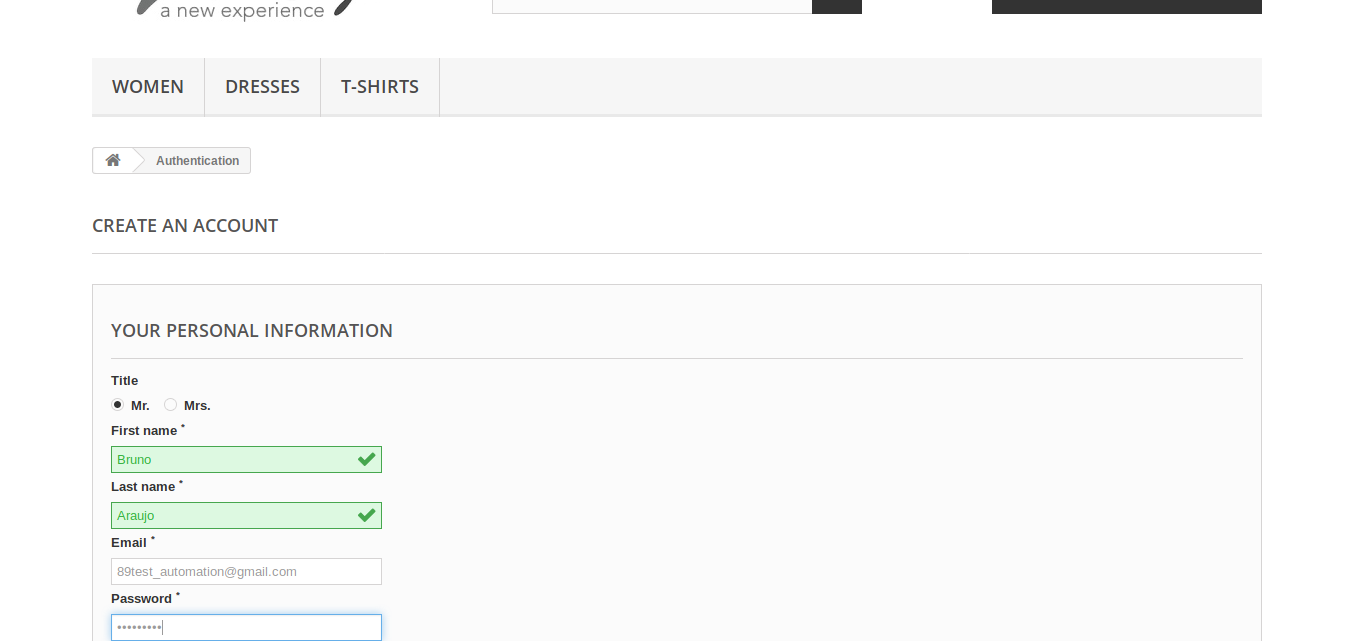
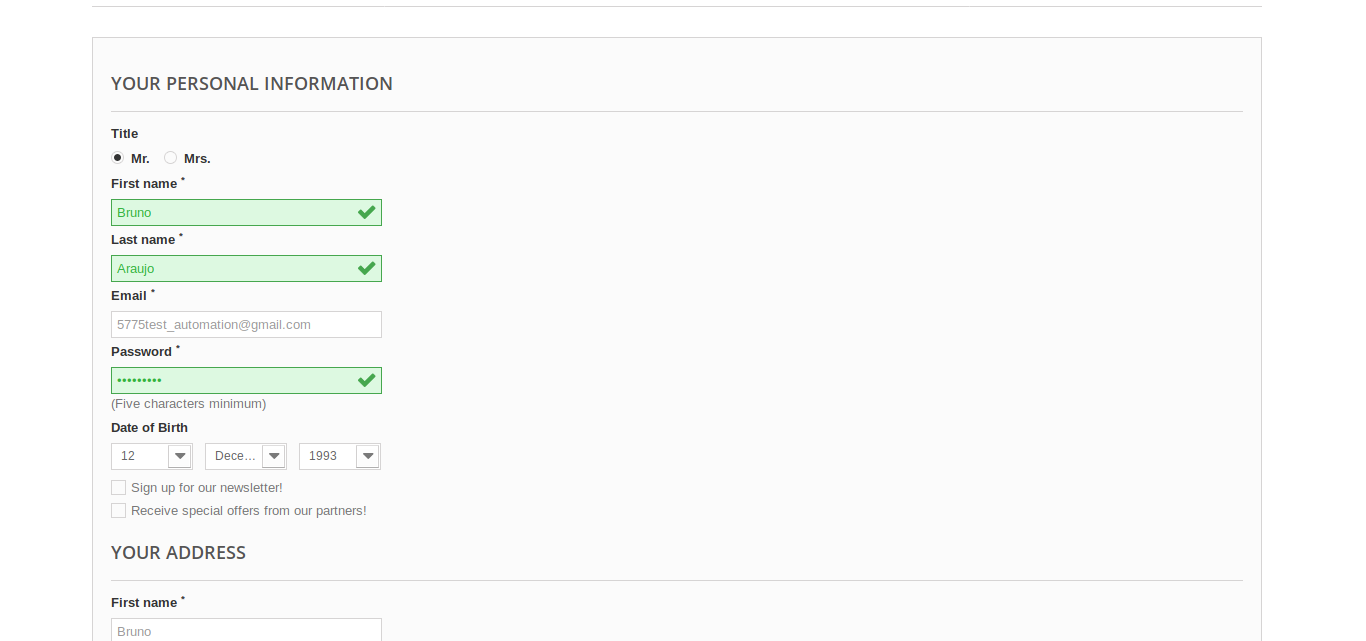
Ajuste no cadastro de usuário

diff --git a/reports/html/features_report.html b/reports/html/features_report.html
@@ -467,13 +467,11 @@ function makeRed(element_id) {
 function makeYellow(element_id) {
   $('#'+element_id).css('background', '#FAF834');
   $('#'+element_id).css('color', '#000000');
-}</script></head><body><!-- Step count 0--><div class="cucumber"><div id="cucumber-header"><div id="label"><h1>Cucumber Features</h1></div><div id="summary"><p id="totals"></p><p id="duration"></p><div id="expand-collapse"><p id="expander">Expand All</p><p id="collapser">Collapse All</p></div></div></div><div class="feature"><h2><span class="val">Feature: Efetuar comprar no site automation practise</span></h2><p class="narrative">Eu como usuário que realizar a compra de um vestido no site Automation Practise<br/></p><div class="background"><h3 id="background_0"><span class="keyword">Background</span> <span class="val">Preparação de ambiente</span></h3><ol><li id='' class='step passed'><div class="step_name"><span class="keyword">Given </span><span class="step val">que esteja na tela inicial do site Automation Practise</span></div><div class="step_file"><span>features/step_definitions/initial_steps.rb:7</span></div></li> <script type="text/javascript">moveProgressBar('100.0');</script></ol></div><div class='scenario'><span class="tag">@solo</span><span class="scenario_file">features/specs/purchase.feature:10</span><h3 id="scenario_1"><span class="keyword">Scenario:</span> <span class="val">Realizar comprar</span></h3><ol><li id='' class='step passed'><div class="step_name"><span class="keyword">Given </span><span class="step val">que clico no categoria Dresses</span></div><div class="step_file"><span>features/step_definitions/initial_steps.rb:11</span></div></li> <script type="text/javascript">moveProgressBar('100.0');</script><li id='' class='step passed'><div class="step_name"><span class="keyword">When </span><span class="step val">clico na subcategoria Summer Dresses</span></div><div class="step_file"><span>features/step_definitions/initial_steps.rb:15</span></div></li> <script type="text/javascript">moveProgressBar('100.0');</script><li id='' class='step passed'><div class="step_name"><span class="keyword">And </span><span class="step val">o título da pagina deve ser <span class="param">&quot;Summer Dresses - My Store&quot;</span></span></div><div class="step_file"><span>features/step_definitions/steps_steps.rb:1</span></div></li> <script type="text/javascript">moveProgressBar('100.0');</script><li id='' class='step passed'><div class="step_name"><span class="keyword">And </span><span class="step val">verifico se tem no estoque o item Printed Chiffon Dress</span></div><div class="step_file"><span>features/step_definitions/steps_steps.rb:21</span></div></li> <script type="text/javascript">moveProgressBar('100.0');</script><li id='' class='step passed'><div class="step_name"><span class="keyword">And </span><span class="step val">seleciono o Dresses de cor amarela</span></div><div class="step_file"><span>features/step_definitions/cart_steps.rb:15</span></div></li> <script type="text/javascript">moveProgressBar('100.0');</script><li id='' class='step passed'><div class="step_name"><span class="keyword">And </span><span class="step val">valido as seguintes informações do pedido</span></div><div class="step_file"><span>features/step_definitions/cart_steps.rb:1</span></div><table><tr class='step' id='row_17'><td id="row_17_0" class="step skipped"><div><span class="step param">name_product</span></div></td><td id="row_17_1" class="step skipped"><div><span class="step param">quantity</span></div></td><td id="row_17_2" class="step skipped"><div><span class="step param">size</span></div></td><td id="row_17_3" class="step skipped"><div><span class="step param">color</span></div></td></tr> <script type="text/javascript">moveProgressBar('100.0');</script><tr class='step' id='row_18'><td id="row_18_0" class="step skipped"><div><span class="step param">Printed Chiffon Dress</span></div></td><td id="row_18_1" class="step skipped"><div><span class="step param">1</span></div></td><td id="row_18_2" class="step skipped"><div><span class="step param">S</span></div></td><td id="row_18_3" class="step skipped"><div><span class="step param">yellow</span></div></td></tr> <script type="text/javascript">moveProgressBar('100.0');</script></table></li> <script type="text/javascript">moveProgressBar('100.0');</script><li id='' class='step passed'><div class="step_name"><span class="keyword">And </span><span class="step val">clico no botão Add to cart</span></div><div class="step_file"><span>features/step_definitions/cart_steps.rb:10</span></div></li> <script type="text/javascript">moveProgressBar('100.0');</script><li id='' class='step passed'><div class="step_name"><span class="keyword">And </span><span class="step val">savo o valor total da compra</span></div><div class="step_file"><span>features/step_definitions/summary_steps.rb:1</span></div></li> <script type="text/javascript">moveProgressBar('100.0');</script><li id='' class='step passed'><div class="step_name"><span class="keyword">And </span><span class="step val">clico no botão Proceed to checkout</span></div><div class="step_file"><span>features/step_definitions/summary_steps.rb:5</span></div></li> <script type="text/javascript">moveProgressBar('100.0');</script><li id='' class='step passed'><div class="step_name"><span class="keyword">And </span><span class="step val">devo ser redirecionado para tela <span class="param">&quot;SHOPPING-CART SUMMARY&quot;</span></span></div><div class="step_file"><span>features/step_definitions/steps_steps.rb:5</span></div></li> <script type="text/javascript">moveProgressBar('100.0');</script><li id='' class='step passed'><div class="step_name"><span class="keyword">And </span><span class="step val">clico no botão Proceed to checkout</span></div><div class="step_file"><span>features/step_definitions/summary_steps.rb:5</span></div></li> <script type="text/javascript">moveProgressBar('100.0');</script><li id='' class='step passed'><div class="step_name"><span class="keyword">And </span><span class="step val">devo ser redirecionado para tela <span class="param">&quot;AUTHENTICATION&quot;</span></span></div><div class="step_file"><span>features/step_definitions/steps_steps.rb:5</span></div></li> <script type="text/javascript">moveProgressBar('100.0');</script><li id='' class='step passed'><div class="step_name"><span class="keyword">And </span><span class="step val">efetuo o login com as seguintes credenciais</span></div><div class="step_file"><span>features/step_definitions/steps_steps.rb:13</span></div><table><tr class='step' id='row_26'><td id="row_26_0" class="step skipped"><div><span class="step param">email</span></div></td><td id="row_26_1" class="step skipped"><div><span class="step param">password</span></div></td></tr> <script type="text/javascript">moveProgressBar('100.0');</script><tr class='step' id='row_27'><td id="row_27_0" class="step skipped"><div><span class="step param">$email</span></div></td><td id="row_27_1" class="step skipped"><div><span class="step param">123Mudar*</span></div></td></tr> <script type="text/javascript">moveProgressBar('100.0');</script></table></li> <script type="text/javascript">moveProgressBar('100.0');</script><script>makeRed('cucumber-header');makeRed('scenario_1');</script><li id='' class='step failed'><div class="step_name"><span class="keyword">And </span><span class="step val">valido as seguintes informações do endereço</span></div><div class="step_file"><span>features/step_definitions/purchase_steps.rb:1</span></div><table><tr class='step' id='row_29'><td id="row_29_0" class="step skipped"><div><span class="step param">name</span></div></td><td id="row_29_1" class="step skipped"><div><span class="step param">street</span></div></td><td id="row_29_2" class="step skipped"><div><span class="step param">city</span></div></td><td id="row_29_3" class="step skipped"><div><span class="step param">zip</span></div></td><td id="row_29_4" class="step skipped"><div><span class="step param">country</span></div></td><td id="row_29_5" class="step skipped"><div><span class="step param">mobile</span></div></td></tr> <script type="text/javascript">moveProgressBar('100.0');</script><tr class='step' id='row_30'><td id="row_30_0" class="step skipped"><div><span class="step param">Bruno</span></div></td><td id="row_30_1" class="step skipped"><div><span class="step param">Nine</span></div></td><td id="row_30_2" class="step skipped"><div><span class="step param">Texas</span></div></td><td id="row_30_3" class="step skipped"><div><span class="step param">76621</span></div></td><td id="row_30_4" class="step skipped"><div><span class="step param">United</span></div></td><td id="row_30_5" class="step skipped"><div><span class="step param">1(212)444-9999</span></div></td></tr> <script type="text/javascript">moveProgressBar('100.0');</script></table><div class="message"><pre>Unable to find css "#address_delivery" (Capybara::ElementNotFound)</pre></div><div class="backtrace"><pre>./features/pages/adress_pages.rb:11:in `get_text_adress_delivery'
-./features/step_definitions/purchase_steps.rb:4:in `block (2 levels) in <top (required)>'
-./features/step_definitions/purchase_steps.rb:3:in `each'
-./features/step_definitions/purchase_steps.rb:3:in `"valido as seguintes informações do endereço"'
-features/specs/purchase.feature:28:in `And valido as seguintes informações do endereço'</pre></div><pre class="ruby"><code><span class="linenum">9</span>
-<span class="linenum">10</span>  def get_text_adress_delivery
-<span class="offending"><span class="linenum">11</span>      text_adress_delivery.text.split(" ")</span>
-<span class="linenum">12</span>  end
-<span class="linenum">13</span>
-<span class="linenum">14</span><span class="comment"># gem install syntax to get syntax highlighting</span></code></pre></li> <script type="text/javascript">moveProgressBar('100.0');</script><li id='' class='step skipped'><div class="step_name"><span class="keyword">And </span><span class="step val">na tela Adress clico no botão Proceed to checkout</span></div><div class="step_file"><span>features/step_definitions/purchase_steps.rb:8</span></div></li> <script type="text/javascript">moveProgressBar('100.0');</script><li id='' class='step skipped'><div class="step_name"><span class="keyword">And </span><span class="step val">devo ser redirecionado para tela <span class="param">&quot;Shipping&quot;</span></span></div><div class="step_file"><span>features/step_definitions/steps_steps.rb:5</span></div></li> <script type="text/javascript">moveProgressBar('100.0');</script><li id='' class='step skipped'><div class="step_name"><span class="keyword">And </span><span class="step val">aceito o termos do serviço que será prestado</span></div><div class="step_file"><span>features/step_definitions/steps_steps.rb:25</span></div></li> <script type="text/javascript">moveProgressBar('100.0');</script><li id='' class='step skipped'><div class="step_name"><span class="keyword">And </span><span class="step val">na tela Shipping clico no botão Proceed to checkout</span></div><div class="step_file"><span>features/step_definitions/purchase_steps.rb:12</span></div></li> <script type="text/javascript">moveProgressBar('100.0');</script><li id='' class='step skipped'><div class="step_name"><span class="keyword">And </span><span class="step val">devo ser redirecionado para tela <span class="param">&quot;Payment&quot;</span></span></div><div class="step_file"><span>features/step_definitions/steps_steps.rb:5</span></div></li> <script type="text/javascript">moveProgressBar('100.0');</script><li id='' class='step skipped'><div class="step_name"><span class="keyword">And </span><span class="step val">seleciono a opção Pay by bank wire</span></div><div class="step_file"><span>features/step_definitions/payment_steps.rb:1</span></div></li> <script type="text/javascript">moveProgressBar('100.0');</script><li id='' class='step skipped'><div class="step_name"><span class="keyword">And </span><span class="step val">devo ser redirecionado para tela <span class="param">&quot;ORDER SUMMARY&quot;</span></span></div><div class="step_file"><span>features/step_definitions/steps_steps.rb:5</span></div></li> <script type="text/javascript">moveProgressBar('100.0');</script><li id='' class='step skipped'><div class="step_name"><span class="keyword">And </span><span class="step val">clico no botão I confirm my order</span></div><div class="step_file"><span>features/step_definitions/payment_steps.rb:5</span></div></li> <script type="text/javascript">moveProgressBar('100.0');</script><li id='' class='step skipped'><div class="step_name"><span class="keyword">And </span><span class="step val">devo ser redirecionado para tela <span class="param">&quot;ORDER CONFIRMATION&quot;</span></span></div><div class="step_file"><span>features/step_definitions/steps_steps.rb:5</span></div></li> <script type="text/javascript">moveProgressBar('100.0');</script><li id='' class='step skipped'><div class="step_name"><span class="keyword">Then </span><span class="step val">valido as seguintes informações da tela Order Confirmation</span></div><div class="step_file"><span>features/step_definitions/payment_steps.rb:9</span></div><table><tr class='step' id='row_41'><td id="row_41_0" class="step skipped"><div><span class="step param">Message_confirmation</span></div></td><td id="row_41_1" class="step skipped"><div><span class="step param">Amount</span></div></td></tr> <script type="text/javascript">moveProgressBar('100.0');</script><tr class='step' id='row_42'><td id="row_42_0" class="step skipped"><div><span class="step param">Your order on My Store is complete.</span></div></td><td id="row_42_1" class="step skipped"><div><span class="step param">$valor</span></div></td></tr> <script type="text/javascript">moveProgressBar('100.0');</script></table></li> <script type="text/javascript">moveProgressBar('100.0');</script><span class="embed"><a id="text_1" href="reports/screenshots/Falhou/selenium/Realizar_comprar_selenium.png" title="Screenshot">Screenshot</a></span></ol></div></div><script type="text/javascript">document.getElementById('duration').innerHTML = "Finished in <strong>0m36.110s seconds</strong>";</script><script type="text/javascript">document.getElementById('totals').innerHTML = "1 scenario (1 failed)<br />25 steps (1 failed, 10 skipped, 14 passed)";</script></div></body></html>
+}</script></head><body><!-- Step count 0--><div class="cucumber"><div id="cucumber-header"><div id="label"><h1>Cucumber Features</h1></div><div id="summary"><p id="totals"></p><p id="duration"></p><div id="expand-collapse"><p id="expander">Expand All</p><p id="collapser">Collapse All</p></div></div></div><div class="feature"><h2><span class="val">Feature: Realizar cadastro na loja virtual</span></h2><p class="narrative">Eu como usuário quero cadastrar - me na loja virtual automation practise<br/></p><div class="background"><h3 id="background_0"><span class="keyword">Background</span> <span class="val">Preparação de ambiente</span></h3><ol><li id='' class='step passed'><div class="step_name"><span class="keyword">Given </span><span class="step val">que esteja na tela de cadastro</span></div><div class="step_file"><span>features/step_definitions/initial_steps.rb:1</span></div></li> <script type="text/javascript">moveProgressBar('100.0');</script></ol></div><div class='scenario'><span class="tag">@logout</span> <span class="tag">@solo</span><span class="scenario_file">features/specs/create_account.feature:10</span><h3 id="scenario_1"><span class="keyword">Scenario:</span> <span class="val">Cadastro de usuário</span></h3><ol><li id='' class='step passed'><div class="step_name"><span class="keyword">When </span><span class="step val">preencho o campo Email address <span class="param">&quot;test_automation@gmail.com&quot;</span></span></div><div class="step_file"><span>features/step_definitions/authentication_steps.rb:1</span></div></li> <script type="text/javascript">moveProgressBar('100.0');</script><li id='' class='step passed'><div class="step_name"><span class="keyword">And </span><span class="step val">clico no botão Create an account</span></div><div class="step_file"><span>features/step_definitions/create_account_steps.rb:1</span></div></li> <script type="text/javascript">moveProgressBar('100.0');</script><li id='' class='step passed'><div class="step_name"><span class="keyword">And </span><span class="step val">o título da pagina deve ser <span class="param">&quot;Login - My Store&quot;</span></span></div><div class="step_file"><span>features/step_definitions/steps_steps.rb:1</span></div></li> <script type="text/javascript">moveProgressBar('100.0');</script><li id='' class='step passed'><div class="step_name"><span class="keyword">And </span><span class="step val">preencho os campos de informação pessoal com os seguintes valores</span></div><div class="step_file"><span>features/step_definitions/create_account_steps.rb:5</span></div><table><tr class='step' id='row_15'><td id="row_15_0" class="step skipped"><div><span class="step param">Title</span></div></td><td id="row_15_1" class="step skipped"><div><span class="step param">First_name</span></div></td><td id="row_15_2" class="step skipped"><div><span class="step param">Last_name</span></div></td><td id="row_15_3" class="step skipped"><div><span class="step param">Email</span></div></td><td id="row_15_4" class="step skipped"><div><span class="step param">Password</span></div></td><td id="row_15_5" class="step skipped"><div><span class="step param">Date_of_Birth</span></div></td></tr> <script type="text/javascript">moveProgressBar('100.0');</script><tr class='step' id='row_16'><td id="row_16_0" class="step skipped"><div><span class="step param">Mr.</span></div></td><td id="row_16_1" class="step skipped"><div><span class="step param">Bruno</span></div></td><td id="row_16_2" class="step skipped"><div><span class="step param">Araujo</span></div></td><td id="row_16_3" class="step skipped"><div><span class="step param">test_automation@gmail.com</span></div></td><td id="row_16_4" class="step skipped"><div><span class="step param">123Mudar*</span></div></td><td id="row_16_5" class="step skipped"><div><span class="step param">12/December/1993</span></div></td></tr> <script type="text/javascript">moveProgressBar('100.0');</script></table></li> <script type="text/javascript">moveProgressBar('100.0');</script><script>makeRed('cucumber-header');makeRed('scenario_1');</script><li id='' class='step failed'><div class="step_name"><span class="keyword">And </span><span class="step val">preencho os campos de endereço com as seguintes valores</span></div><div class="step_file"><span>features/step_definitions/create_account_steps.rb:13</span></div><table><tr class='step' id='row_18'><td id="row_18_0" class="step skipped"><div><span class="step param">First_name</span></div></td><td id="row_18_1" class="step skipped"><div><span class="step param">Last_name</span></div></td><td id="row_18_2" class="step skipped"><div><span class="step param">Adress</span></div></td><td id="row_18_3" class="step skipped"><div><span class="step param">City</span></div></td><td id="row_18_4" class="step skipped"><div><span class="step param">State</span></div></td><td id="row_18_5" class="step skipped"><div><span class="step param">Zip</span></div></td><td id="row_18_6" class="step skipped"><div><span class="step param">Mobile</span></div></td><td id="row_18_7" class="step skipped"><div><span class="step param">References</span></div></td></tr> <script type="text/javascript">moveProgressBar('100.0');</script><tr class='step' id='row_19'><td id="row_19_0" class="step skipped"><div><span class="step param">Bruno</span></div></td><td id="row_19_1" class="step skipped"><div><span class="step param">Araujo</span></div></td><td id="row_19_2" class="step skipped"><div><span class="step param">Street Nine</span></div></td><td id="row_19_3" class="step skipped"><div><span class="step param">United States</span></div></td><td id="row_19_4" class="step skipped"><div><span class="step param">Texas</span></div></td><td id="row_19_5" class="step skipped"><div><span class="step param">76621</span></div></td><td id="row_19_6" class="step skipped"><div><span class="step param">1(212)444-9999</span></div></td><td id="row_19_7" class="step skipped"><div><span class="step param">Walmart</span></div></td></tr> <script type="text/javascript">moveProgressBar('100.0');</script></table><div class="message"><pre>Unable to find visible css "#id_gender1" (Capybara::ElementNotFound)</pre></div><div class="backtrace"><pre>./features/pages/create_account_pages.rb:39:in `preencher_endereço'
+./features/step_definitions/create_account_steps.rb:14:in `"preencho os campos de endereço com as seguintes valores"'
+features/specs/create_account.feature:17:in `And preencho os campos de endereço com as seguintes valores'</pre></div><pre class="ruby"><code><span class="linenum">37</span>
+<span class="linenum">38</span>    def preencher_endereço(*args)
+<span class="offending"><span class="linenum">39</span>      radio_title.click</span>
+<span class="linenum">40</span>      input_firstname.set(args[0])
+<span class="linenum">41</span>      input_lastname.set(args[1])
+<span class="linenum">42</span><span class="comment"># gem install syntax to get syntax highlighting</span></code></pre></li> <script type="text/javascript">moveProgressBar('100.0');</script><li id='' class='step skipped'><div class="step_name"><span class="keyword">And </span><span class="step val">clico no botão Register</span></div><div class="step_file"><span>features/step_definitions/create_account_steps.rb:23</span></div></li> <script type="text/javascript">moveProgressBar('100.0');</script><li id='' class='step skipped'>

diff --git a/features/pages/create_account_pages.rb b/features/pages/create_account_pages.rb
@@ -30,9 +30,9 @@ class CreateAccount < SitePrism::Page
     end
 
     def set_date_birth(data)
-      select data[0], from: "days"
-      select data[1], from: "months"
-      select data[2], from: "years"
+      page.find("#days > option:nth-child(#{data[0].to_i + 1})").click
+      page.find("#months > option:nth-child(13)").click
+      page.find("#years > option:nth-child(28)").click
     end
 
     def preencher_endereço(*args)

diff --git a/features/step_definitions/create_account_steps.rb b/features/step_definitions/create_account_steps.rb
@@ -4,7 +4,7 @@ end
 
 And("preencho os campos de informação pessoal com os seguintes valores") do |table|
     data = table.hashes[0]["Date_of_Birth"].split("/")
-
+    
     create_account.preencher_informaçoes_pessoais(table.hashes[0]["Title"], table.hashes[0]["First_name"],
                                                     table.hashes[0]["Last_name"], table.hashes[0]["Password"])
     create_account.set_date_birth(data)
